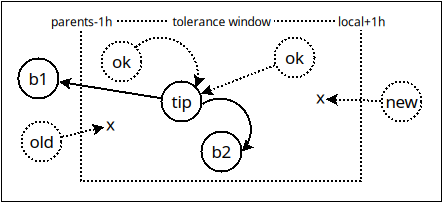
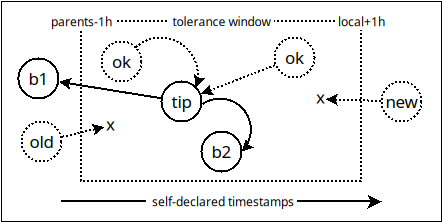
...

diff --git a/main.tex b/main.tex
@@ -954,9 +954,7 @@ timestamp within reasonable bounds:
 Figure~\ref{fig.times} illustrates the tolerance window to append new actions
 into the DAG.
 The solid shapes represent previously validated actions (\code{tip}, \code{b1},
-\code{b2}), tolerating a tip slightly older than its parent (\code{tip} vs
 \code{b2}).
-%
 The dashed shapes represent new actions with possible timings and outcomes in
 relation to the tolerance window.
 %
